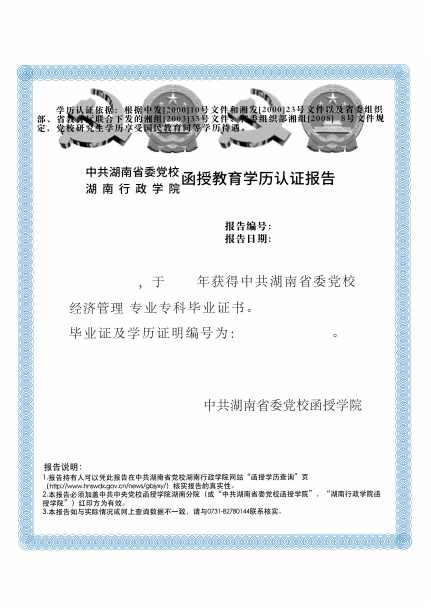
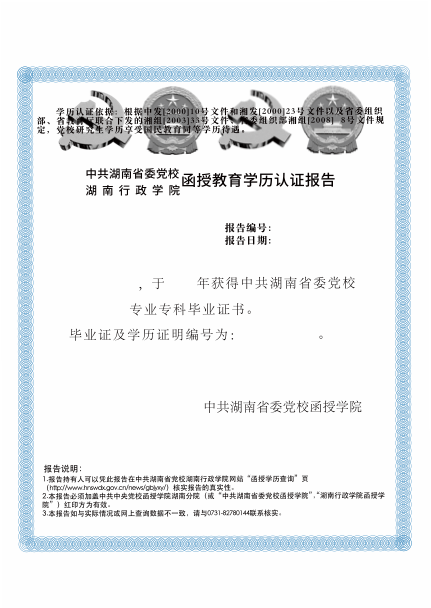
update

diff --git a/app/public/js/src/result.js b/app/public/js/src/result.js
@@ -164,29 +164,43 @@ function loadPostCertifate(xm, bgbh, bgrq, xb, sfzh, start_year, start_month, en
       sealImg.onload = function() {
         ctx.drawImage(sealImg, 300, 490, sealImg.width / 7, sealImg.height / 7);
 
-        ctx.font = "12px bold SimSun";
-        ctx.fillText(bgbh, 375, 325);
-        ctx.fillText(bgrq, 375, 342);
+        if(screenWidth == 2560){
+          ctx.font = "12px bold SimSun";
+          ctx.fillText(bgbh, 375, 325);
+          ctx.fillText(bgrq, 375, 342);
+          ctx.fillText(xm, 100, 392);
+          ctx.fillText(xb, 210, 392);
+          ctx.fillText(sfzh, 305, 392);
+          ctx.fillText(start_year, 85, 415);
+          ctx.fillText(start_month, 140, 415);
+          ctx.fillText(end_year, 190, 415);
+          ctx.fillText(end_month, 245, 415);
+          ctx.fillText(zy, 290, 415);
+          ctx.fillText(xh, 120, 441);
+          ctx.fillText(xz, 225, 440);
+          ctx.fillText(graduate_year, 320, 466);
+          ctx.fillText(graduate_month, 370, 466);
+          ctx.fillText(zsbh, 265, 518);
+        }
+        else{
+          ctx.font = "12px bold SimSun";
+          ctx.fillText(bgbh, 377, 325);
+          ctx.fillText(bgrq, 377, 342);
+          ctx.fillText(xm, 100, 392);
+          ctx.fillText(xb, 210, 392);
+          ctx.fillText(sfzh, 308, 392);
+          ctx.fillText(start_year, 85, 416);
+          ctx.fillText(start_month, 140, 416);
+          ctx.fillText(end_year, 190, 416);
+          ctx.fillText(end_month, 245, 416);
+          ctx.fillText(zy, 290, 416);
+          ctx.fillText(xh, 120, 441);
+          ctx.fillText(xz, 225, 440);
+          ctx.fillText(graduate_year, 323, 467);
+          ctx.fillText(graduate_month, 375, 467);
+          ctx.fillText(zsbh, 270, 519);
+        }
 
-        ctx.font = "12px bold SimSun";
-        ctx.fillText(xm, 100, 392);
-
-        ctx.fillText(xb, 210, 392);
-        ctx.fillText(sfzh, 305, 392);
-        ctx.fillText(start_year, 85, 415);
-        ctx.fillText(start_month, 140, 415);
-
-        ctx.fillText(end_year, 190, 415);
-        ctx.fillText(end_month, 245, 415);
-
-        ctx.fillText(zy, 290, 415);
-        ctx.fillText(xh, 120, 441);
-        //ctx.fillText(xz, 425, 438);
-
-        ctx.fillText(graduate_year, 320, 466);
-        ctx.fillText(graduate_month, 370, 466);
-
-        ctx.fillText(zsbh, 265, 518);
       }
       sealImg.src = '/public/images/seal3@2x.png';
     };
@@ -268,7 +282,7 @@ function loadPostCertifate(xm, bgbh, bgrq, xb, sfzh, start_year, start_month, en
 
           ctx.fillText(zy, 233, 361);
           ctx.fillText(xh, 100, 385);
-          //ctx.fillText(xz, 363, 380);
+          ctx.fillText(xz, 179, 380);
 
           ctx.fillText(graduate_year, 265, 405);
           ctx.fillText(graduate_month, 310, 406);
@@ -292,7 +306,7 @@ function loadPostCertifate(xm, bgbh, bgrq, xb, sfzh, start_year, start_month, en
 
           ctx.fillText(zy, 220, 340);
           ctx.fillText(xh, 90, 360);
-          //ctx.fillText(xz, 340, 360);
+          ctx.fillText(xz, 179, 360);
 
           ctx.fillText(graduate_year, 260, 382);
           ctx.fillText(graduate_month, 295, 382);
@@ -344,7 +358,7 @@ function loadPostCertifate(xm, bgbh, bgrq, xb, sfzh, start_year, start_month, en
 
         ctx.fillText(zy, 180, 272);
         ctx.fillText(xh,75, 290);
-        //ctx.fillText(xz, 278, 287);
+        ctx.fillText(xz, 148, 290);
 
         ctx.fillText(graduate_year, 206, 306);
         ctx.fillText(graduate_month, 245, 306);
@@ -374,7 +388,7 @@ function loadUnderCertifate(xm, bgbh, bgrq, xb, sfzh, start_year, start_month, e
   if (screenWidth > 1600) {
     var myImage = new Image();
     if(xxmc == '中央党校函授学院' || xxmc == '中共中央党校函授学院'){
-      myImage.src = '/public/images/Undergraduate_Certificate@2x.png';
+      myImage.src = '/public/images/Undergraduate_Certificate_Center@2x.png';
     }
     else{
       myImage.src = '/public/images/Undergraduate_Certificate@2x.png';
@@ -414,20 +428,35 @@ function loadUnderCertifate(xm, bgbh, bgrq, xb, sfzh, start_year, start_month, e
 
       var sealImg = new Image();
       sealImg.onload = function() {
-        ctx.drawImage(sealImg, 300, 450, sealImg.width / 7, sealImg.height / 7);
+        ctx.drawImage(sealImg, 300, 456, sealImg.width / 7, sealImg.height / 7);
+        if(screenWidth == 2560){
+          ctx.font = "12px bold SimSun";
+          ctx.fillText(bgbh, 350,284);
+          ctx.fillText(bgrq, 350,300);
 
-        ctx.font = "12px bold SimSun";
-        ctx.fillText(bgbh, 350,286);
-        ctx.fillText(bgrq, 350,302);
+          ctx.font = "16px bold SimSun";
+          ctx.fillText(xm, 110, 355);
 
-        ctx.font = "16px bold SimSun";
-        ctx.fillText(xm, 110, 357);
+          ctx.fillText(end_year, 205,355);
 
-        ctx.fillText(end_year, 206,356);
+          ctx.fillText(zy, 88,386);
 
-        ctx.fillText(zy, 88,390);
+          ctx.fillText(zsbh, 310, 418);
+        }
+        else{
+          ctx.font = "12px bold SimSun";
+          ctx.fillText(bgbh, 350,290);
+          ctx.fillText(bgrq, 350,305);
 
-        ctx.fillText(zsbh, 310, 420);
+          ctx.font = "16px bold SimSun";
+          ctx.fillText(xm, 110, 360);
+
+          ctx.fillText(end_year, 208,360);
+
+          ctx.fillText(zy, 88,391);
+
+          ctx.fillText(zsbh, 310, 423);
+        }
       }
       if (xxmc == '湖南行政学院') {
         if (xxxs == '函授') {
@@ -449,7 +478,12 @@ function loadUnderCertifate(xm, bgbh, bgrq, xb, sfzh, start_year, start_month, e
   } else if (screenWidth > 1280 && screenWidth <= 1600) {
     var myImage = new Image();
 
-    myImage.src = '/public/images/Undergraduate_Certificate@2x.png';
+    if(xxmc == '中央党校函授学院' || xxmc == '中共中央党校函授学院'){
+      myImage.src = '/public/images/Undergraduate_Certificate_Center@2x.png';
+    }
+    else{
+      myImage.src = '/public/images/Undergraduate_Certificate@2x.png';
+    }
     myImage.style.cssText = "transform:scale(0.5)";
 
     myImage.onload = function() {
@@ -538,7 +572,12 @@ function loadUnderCertifate(xm, bgbh, bgrq, xb, sfzh, start_year, start_month, e
 
   } else if (screenWidth <= 1280) {
     var myImage = new Image();
-    myImage.src = '/public/images/Undergraduate_Certificate@1x.png';
+    if(xxmc == '中央党校函授学院' || xxmc == '中共中央党校函授学院'){
+      myImage.src = '/public/images/Undergraduate_Certificate_Center@1x.png';
+    }
+    else{
+      myImage.src = '/public/images/Undergraduate_Certificate@1x.png';
+    }
     myImage.style.cssText = "transform:scale(0.5)";
     myImage.onload = function() {
       var scale = canvas.width / myImage.width;
@@ -637,7 +676,7 @@ function loadPostgraduateBigCertifate(xm, bgbh, bgrq, xb, sfzh, start_year, star
 
       ctx.fillText(zy, 460, 668);
       ctx.fillText(xh, 190, 708);
-      //ctx.fillText(xz, 680, 700);
+      ctx.fillText(xz, 680, 700);
 
       ctx.fillText(graduate_year, 500, 750);
       ctx.fillText(graduate_month, 595, 750);
@@ -671,9 +710,9 @@ function loadUndergraduateBigCertifate(xm, bgbh, bgrq, xb, sfzh, start_year, sta
     sealImg.onload = function() {
       ctx.drawImage(sealImg, 500, 720, sealImg.width / 5, sealImg.height / 5);
 
-      ctx.font = "16px bold SimSun";
-      ctx.fillText(bgbh, 570, 456);
-      ctx.fillText(bgrq, 570, 485);
+      ctx.font = "17px bold SimSun";
+      ctx.fillText(bgbh, 570, 457);
+      ctx.fillText(bgrq, 570, 486);
 
       ctx.font = "26px SimSun";
       ctx.fillText(xm, 180,575);
